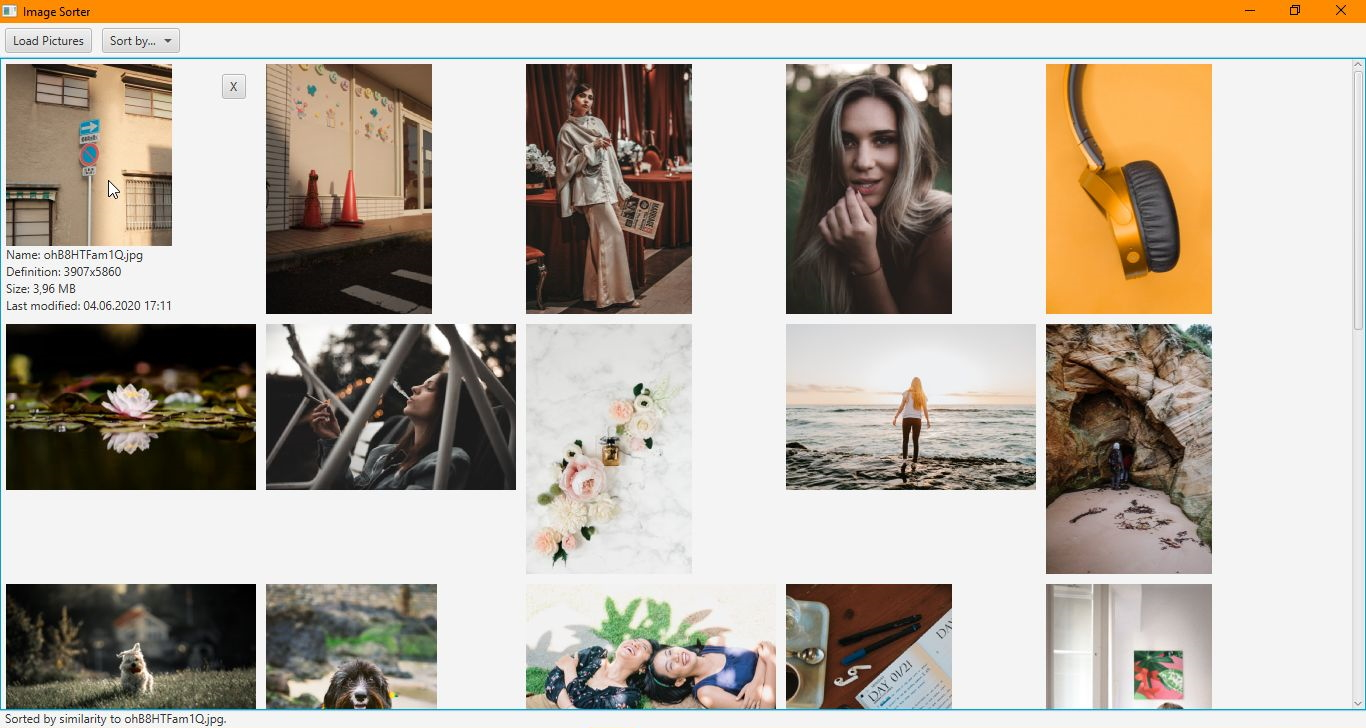
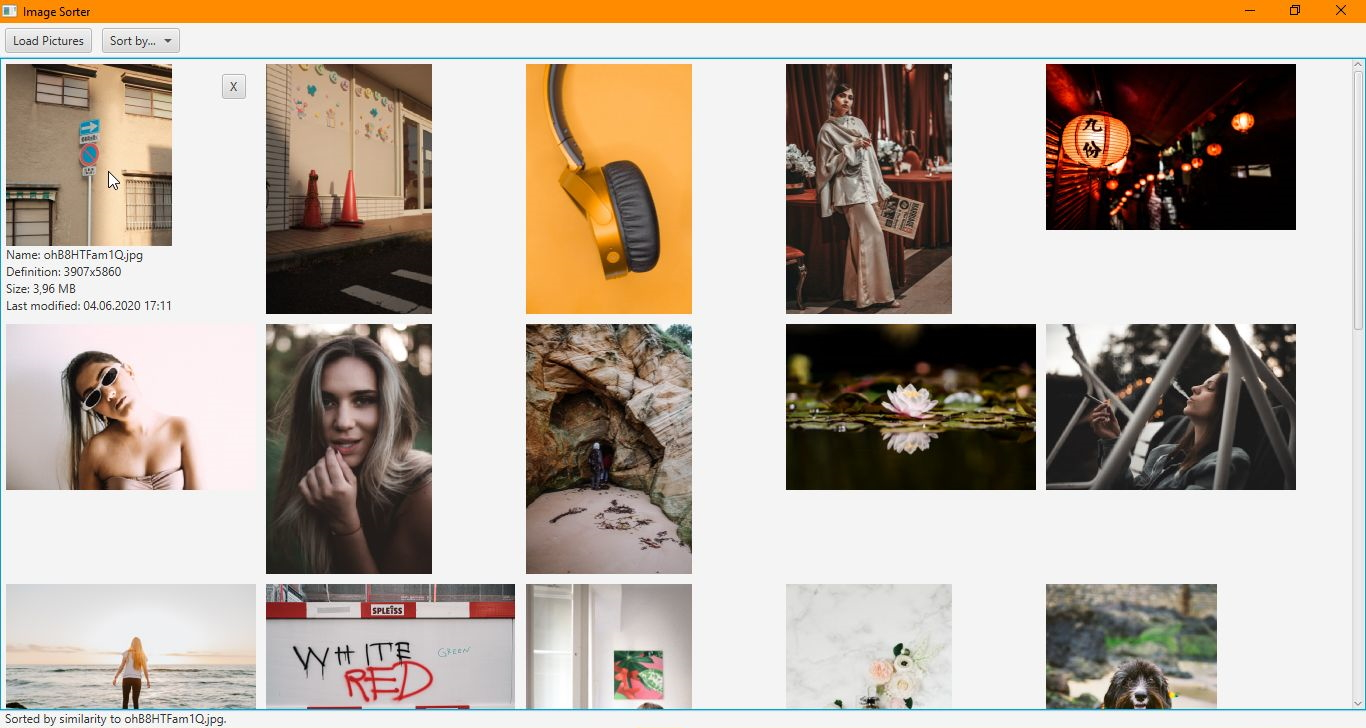
Fixed distance calculating function

diff --git a/MainController.java b/MainController.java
@@ -164,7 +164,7 @@ public class MainController {
     }
 
     private double HsbArbitraryValue(Color color) {
-        return color.getHue() + color.getBrightness() + color.getSaturation();
+        return Math.cos(Math.toRadians(color.getHue())) + color.getBrightness() + color.getSaturation();
     }
 
     private void sort(Comparator<CustomImageView> comparator) {
